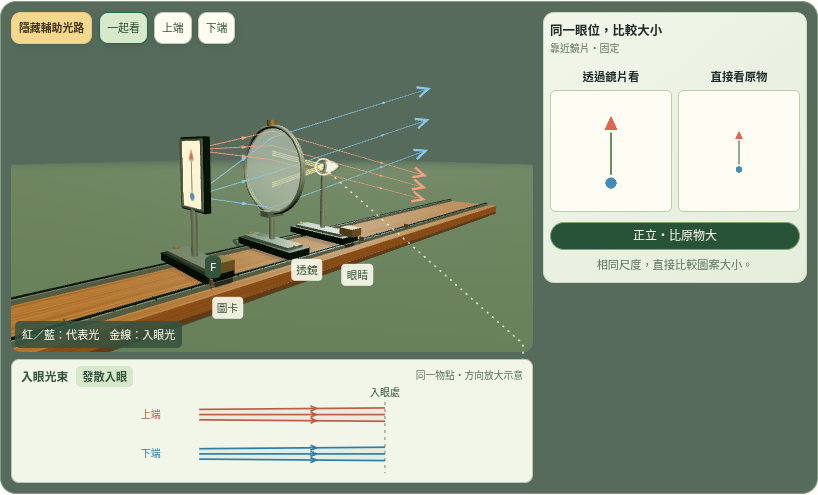
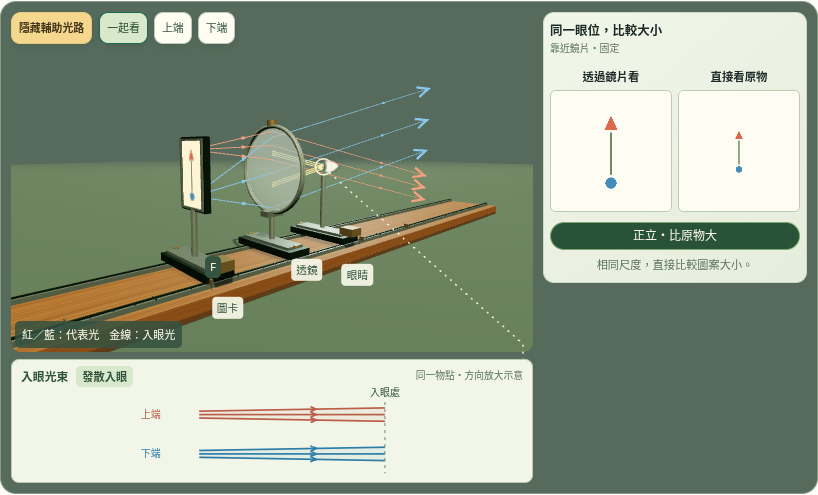
加強剛跨 F 時入眼光束示意的方向差異

Changed region(s): [[0.2445, 0.8182, 0.4584, 0.9394]]

diff --git a/units/4/parts/4.4/index.html b/units/4/parts/4.4/index.html
@@ -1,4 +1,4 @@
-<!doctype html><html lang="zh-Hant"><head><meta charset="utf-8"><meta name="viewport" content="width=device-width,initial-scale=1"><meta name="theme-color" content="#f3f7f2"><title>透鏡如何形成影像？</title><meta name="description" content="從針孔到透鏡，移動物體與屏幕找出清楚像，再探索眼睛調節、眼鏡矯正與顯微鏡。"><meta property="og:type" content="website"><meta property="og:locale" content="zh_TW"><meta property="og:title" content="透鏡如何形成影像？"><meta property="og:description" content="跟小葵與阿公追蹤光路，從小孔成像一路探索到眼睛與光學工具。"><meta property="og:url" content="https://billlaitrade.github.io/k12-learning-demos/units/4/parts/4.4/"><meta property="og:image" content="https://billlaitrade.github.io/k12-learning-demos/units/4/parts/4.4/assets/lens-studio-cover.webp"><meta property="og:image:alt" content="小葵與阿公在木桌前觀察放大鏡、透鏡與屏幕，桌旁放著顯微鏡。"><meta name="twitter:card" content="summary_large_image"><meta name="twitter:title" content="透鏡如何形成影像？"><meta name="twitter:image" content="https://billlaitrade.github.io/k12-learning-demos/units/4/parts/4.4/assets/lens-studio-cover.webp"><link rel="canonical" href="https://billlaitrade.github.io/k12-learning-demos/units/4/parts/4.4/"><link rel="icon" href="data:,"><link rel="stylesheet" href="assets/lesson.css?v=20261102-split1"><script type="module" src="assets/lesson.mjs?v=20261102-split1"></script><link rel="stylesheet" href="assets/pinhole-3d.css?v=20261102-pinhole3"><script type="module" src="assets/pinhole-3d.mjs?v=20261102-pinhole3"></script><link rel="stylesheet" href="assets/parallel-lab.css?v=20261102-split1"><script type="module" src="assets/parallel-lab.mjs?v=20261102-split1"></script><link rel="stylesheet" href="assets/convex-studio.css?v=20261103-focal-inline1"><script type="module" src="assets/convex-studio.mjs?v=20261103-focal-inline1"></script><link rel="stylesheet" href="assets/imaging-studio.css?v=20261103-imaging-inline1"><script type="module" src="assets/imaging-studio.mjs?v=20261104-view-conditions1"></script><link rel="stylesheet" href="assets/magnifier-studio.css?v=20261104-mag-bundle1"><script type="module" src="assets/magnifier-studio.mjs?v=20261104-mag-bundle1"></script><link rel="stylesheet" href="assets/imaging-workspace.css?v=20261104-convex-unified1"><link rel="stylesheet" href="assets/convex-bench.css?v=20261104-mag-layout2"></head><body><header class="shell masthead"><div class="brand-row"><a class="brand" href="../../index.html">← 光的反射、折射與成像</a><span class="crumb">國二上・自然科學</span></div><div class="hero"><div><div class="eyebrow">學習內容 4.4｜成像與透鏡應用</div><h1>透鏡如何形成影像？</h1><p class="hero-copy">從一張倒過來的圖案開始，移動物體、調整屏幕，沿著光走過的路，解開透鏡、眼睛和光學工具的祕密。</p></div><figure class="hero-cover"><img src="assets/lens-studio-cover.webp" width="1672" height="941" alt="小葵與阿公在木桌前觀察放大鏡、透鏡與屏幕，桌旁放著顯微鏡。"></figure></div></header><main class="shell lesson-layout"><nav class="route" aria-label="學習路徑"><p class="route-label">本單元的探索路線</p><p class="route-progress" id="route-progress" aria-live="polite">目前位置：第 01／09 個學習區塊</p><div class="route-inner"><a href="#s1" aria-current="step"><b>01</b><span>針孔如何形成倒立像？</span></a><a href="#s2"><b>02</b><span>凸透鏡如何讓光會聚？</span></a><a href="#s3"><b>03</b><span>凸透鏡如何成像，物體遠近又會怎麼影響像？</span></a><a href="#s4"><b>04</b><span>凸透鏡什麼時候能當放大鏡？</span></a><a href="#s5"><b>05</b><span>凹透鏡如何讓光發散？</span></a><a href="#s6"><b>06</b><span>凹透鏡形成什麼像？</span></a><a href="#s7"><b>07</b><span>眼睛如何把影像送到視網膜？</span></a><a href="#s8"><b>08</b><span>近視與遠視如何形成，又怎麼用眼鏡矯正？</span></a><a href="#s9"><b>09</b><span>顯微鏡如何讓兩組透鏡接力放大？</span></a><a href="#s10" class="quiz-nav"><b aria-hidden="true">✦</b><span>單元小測</span></a></div></nav><div class="cards"><div class="section-top"><h2>從一個小孔，走進成像的世界</h2></div><noscript><p class="no-js">互動觀察需要 JavaScript。你仍可閱讀每段對話、概念及模型說明；啟用後即可移動器材與比較光路。</p></noscript><section class="lesson-card" id="s1" aria-labelledby="s1-title">
+<!doctype html><html lang="zh-Hant"><head><meta charset="utf-8"><meta name="viewport" content="width=device-width,initial-scale=1"><meta name="theme-color" content="#f3f7f2"><title>透鏡如何形成影像？</title><meta name="description" content="從針孔到透鏡，移動物體與屏幕找出清楚像，再探索眼睛調節、眼鏡矯正與顯微鏡。"><meta property="og:type" content="website"><meta property="og:locale" content="zh_TW"><meta property="og:title" content="透鏡如何形成影像？"><meta property="og:description" content="跟小葵與阿公追蹤光路，從小孔成像一路探索到眼睛與光學工具。"><meta property="og:url" content="https://billlaitrade.github.io/k12-learning-demos/units/4/parts/4.4/"><meta property="og:image" content="https://billlaitrade.github.io/k12-learning-demos/units/4/parts/4.4/assets/lens-studio-cover.webp"><meta property="og:image:alt" content="小葵與阿公在木桌前觀察放大鏡、透鏡與屏幕，桌旁放著顯微鏡。"><meta name="twitter:card" content="summary_large_image"><meta name="twitter:title" content="透鏡如何形成影像？"><meta name="twitter:image" content="https://billlaitrade.github.io/k12-learning-demos/units/4/parts/4.4/assets/lens-studio-cover.webp"><link rel="canonical" href="https://billlaitrade.github.io/k12-learning-demos/units/4/parts/4.4/"><link rel="icon" href="data:,"><link rel="stylesheet" href="assets/lesson.css?v=20261102-split1"><script type="module" src="assets/lesson.mjs?v=20261102-split1"></script><link rel="stylesheet" href="assets/pinhole-3d.css?v=20261102-pinhole3"><script type="module" src="assets/pinhole-3d.mjs?v=20261102-pinhole3"></script><link rel="stylesheet" href="assets/parallel-lab.css?v=20261102-split1"><script type="module" src="assets/parallel-lab.mjs?v=20261102-split1"></script><link rel="stylesheet" href="assets/convex-studio.css?v=20261103-focal-inline1"><script type="module" src="assets/convex-studio.mjs?v=20261103-focal-inline1"></script><link rel="stylesheet" href="assets/imaging-studio.css?v=20261103-imaging-inline1"><script type="module" src="assets/imaging-studio.mjs?v=20261104-view-conditions1"></script><link rel="stylesheet" href="assets/magnifier-studio.css?v=20261104-mag-bundle2"><script type="module" src="assets/magnifier-studio.mjs?v=20261104-mag-bundle2"></script><link rel="stylesheet" href="assets/imaging-workspace.css?v=20261104-convex-unified1"><link rel="stylesheet" href="assets/convex-bench.css?v=20261104-mag-layout2"></head><body><header class="shell masthead"><div class="brand-row"><a class="brand" href="../../index.html">← 光的反射、折射與成像</a><span class="crumb">國二上・自然科學</span></div><div class="hero"><div><div class="eyebrow">學習內容 4.4｜成像與透鏡應用</div><h1>透鏡如何形成影像？</h1><p class="hero-copy">從一張倒過來的圖案開始，移動物體、調整屏幕，沿著光走過的路，解開透鏡、眼睛和光學工具的祕密。</p></div><figure class="hero-cover"><img src="assets/lens-studio-cover.webp" width="1672" height="941" alt="小葵與阿公在木桌前觀察放大鏡、透鏡與屏幕，桌旁放著顯微鏡。"></figure></div></header><main class="shell lesson-layout"><nav class="route" aria-label="學習路徑"><p class="route-label">本單元的探索路線</p><p class="route-progress" id="route-progress" aria-live="polite">目前位置：第 01／09 個學習區塊</p><div class="route-inner"><a href="#s1" aria-current="step"><b>01</b><span>針孔如何形成倒立像？</span></a><a href="#s2"><b>02</b><span>凸透鏡如何讓光會聚？</span></a><a href="#s3"><b>03</b><span>凸透鏡如何成像，物體遠近又會怎麼影響像？</span></a><a href="#s4"><b>04</b><span>凸透鏡什麼時候能當放大鏡？</span></a><a href="#s5"><b>05</b><span>凹透鏡如何讓光發散？</span></a><a href="#s6"><b>06</b><span>凹透鏡形成什麼像？</span></a><a href="#s7"><b>07</b><span>眼睛如何把影像送到視網膜？</span></a><a href="#s8"><b>08</b><span>近視與遠視如何形成，又怎麼用眼鏡矯正？</span></a><a href="#s9"><b>09</b><span>顯微鏡如何讓兩組透鏡接力放大？</span></a><a href="#s10" class="quiz-nav"><b aria-hidden="true">✦</b><span>單元小測</span></a></div></nav><div class="cards"><div class="section-top"><h2>從一個小孔，走進成像的世界</h2></div><noscript><p class="no-js">互動觀察需要 JavaScript。你仍可閱讀每段對話、概念及模型說明；啟用後即可移動器材與比較光路。</p></noscript><section class="lesson-card" id="s1" aria-labelledby="s1-title">
 <header class="lesson-head"><span class="lesson-number">01</span><div><h2 id="s1-title">針孔如何形成倒立像？</h2><p>轉動實驗台，追蹤上下兩端的光如何通過小孔</p></div></header>
 <div class="lesson-body">
 <div class="dialogue dialogue--xiaokui"><span class="speaker"><span class="visually-hidden">小葵：</span></span><p>沒有放鏡片，屏幕上的圖案怎麼倒過來了？</p></div>

diff --git a/docs/reviews/unit-4.4-magnifier-bundle-20261104/review.md b/docs/reviews/unit-4.4-magnifier-bundle-20261104/review.md
@@ -26,3 +26,5 @@
 - [剛跨 F（1.104F）：會聚入眼，輪廓逐漸失焦](outside.png)
 - [手機 F 外](mobile.png)
 - [跨 F 像素與失焦示意紀錄](continuous-defocus.json)
+
+補充視覺檢查：把小圖的方向差異進一步放大，1.104F 時同點光束的前後束寬差大於 12 個示意座標單位；主圖光路和失焦計算不變。最終版第四區 19 項重新通過，並更新三狀態與手機畫面。
